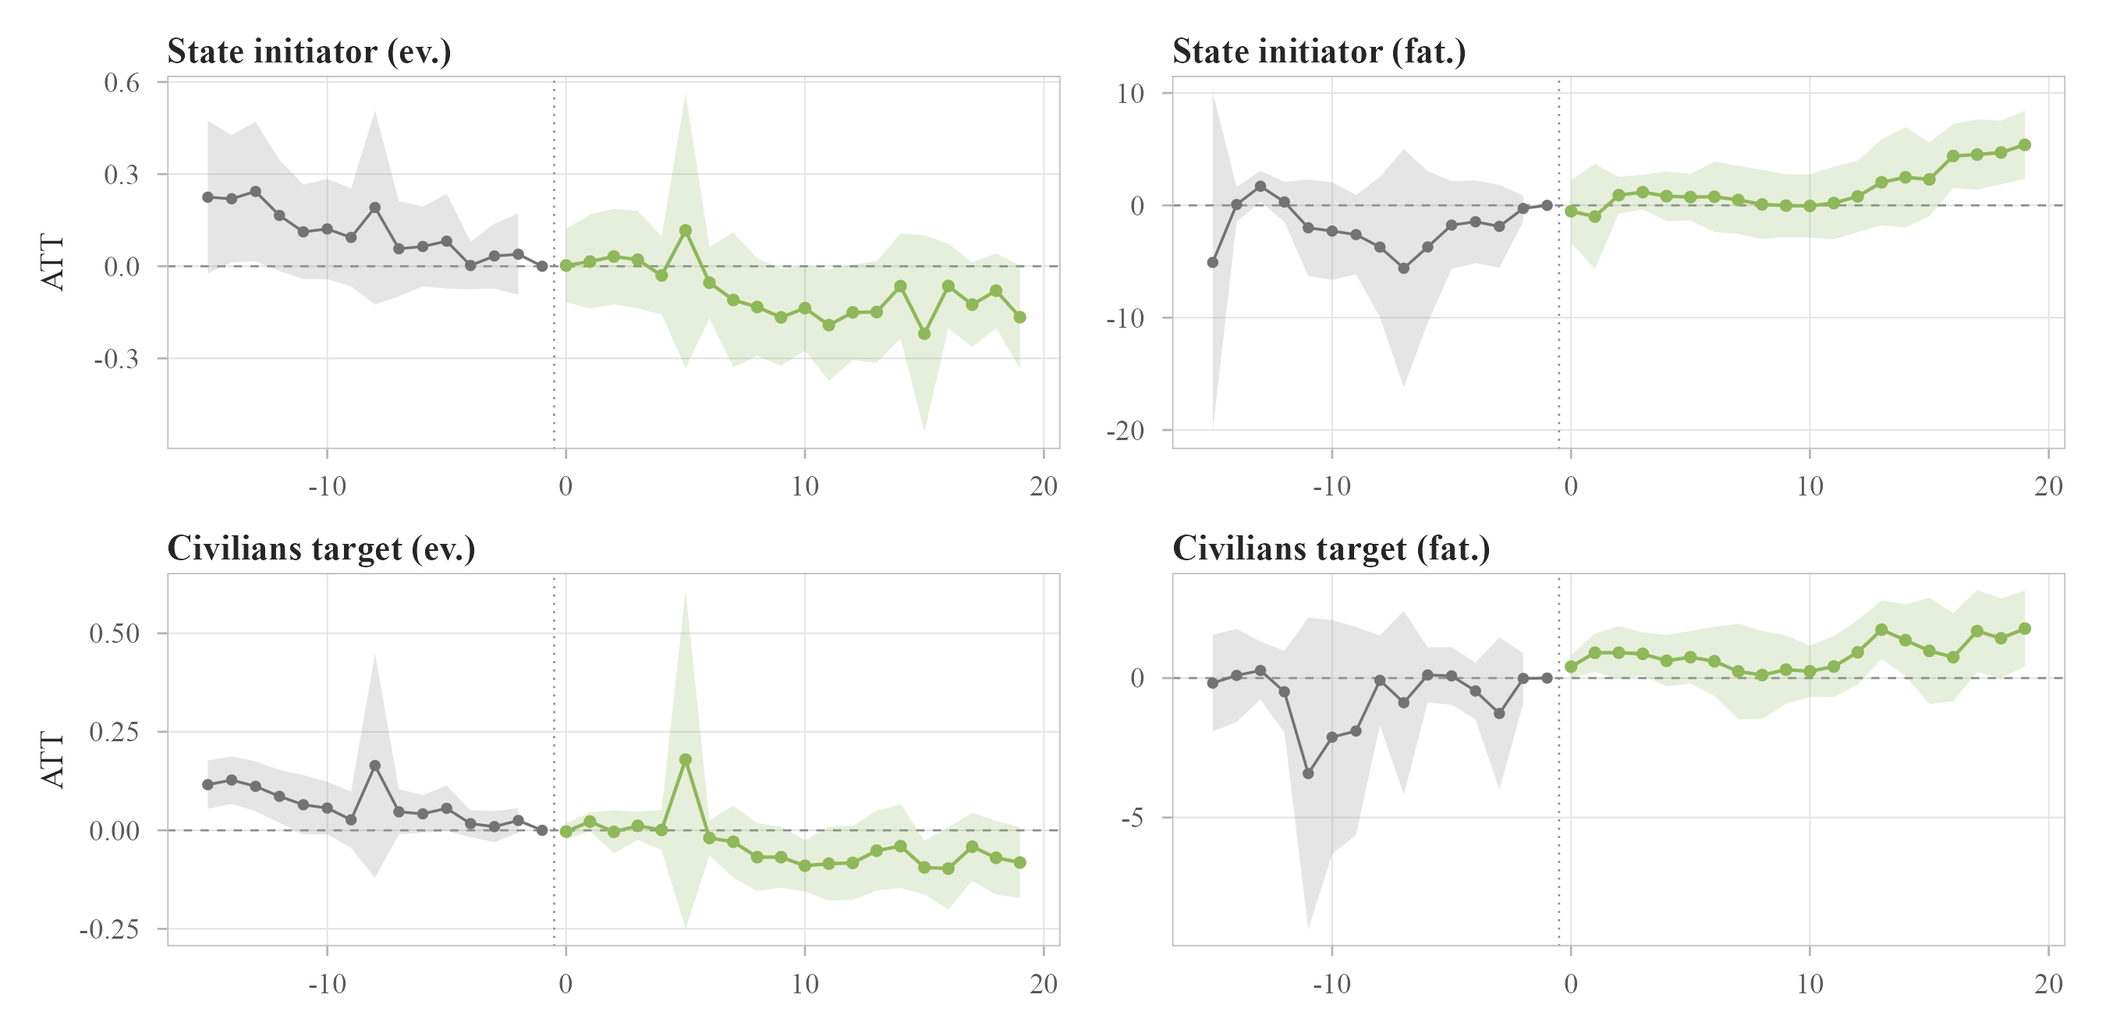
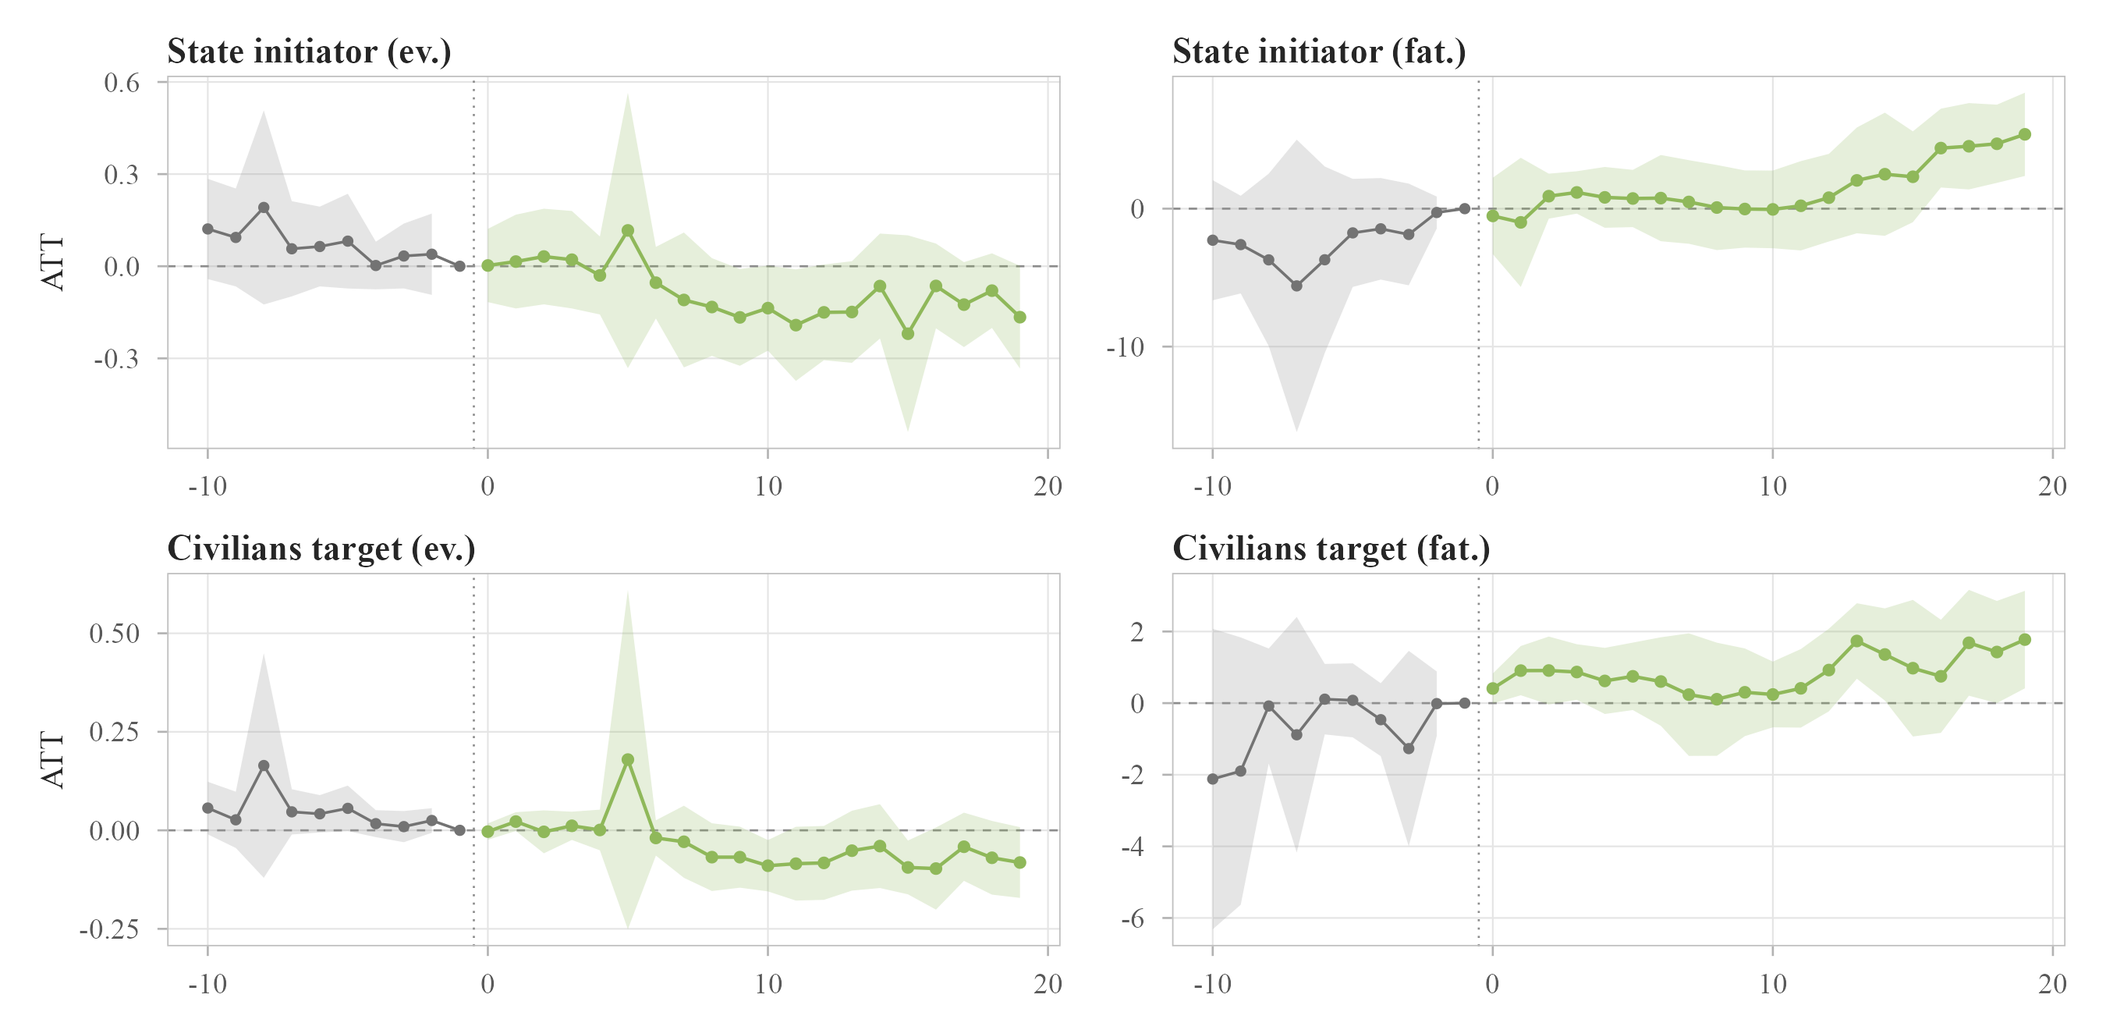
Clip every event-study figure to ten years before discovery
All pre-trend violations in the paper sat at leads of eleven years or more,
where only the earliest treated cohort contributes. Inside the ten years
before discovery every aggregate estimate is clean: zero pre-treatment
coefficients outside the simultaneous band, for all three minerals, on both
conflict events and battle deaths. Chromium's pre-window reached back
twenty-three years, which is where its eight violations were.

- All figures now display -10 onward: the regime figure, the three actor-story
  figures, and the appendix grids
- Pre columns in every mechanism table count the -10..-1 window, so the main
  table and the three appendix tables agree on the statistic
- Empirical Strategy states the window, justifies it on identification grounds,
  and reports the deeper-lead violations rather than suppressing them
- Chromium caveat rewritten: identified, on a shorter effective pre-window
- Reading guidance explains why deeper leads are not shown

Separately, 18_regen_appendix.R was estimating on the full panel while the main
text uses the governance period, so the appendix would have shown a different
sample with nothing saying why. It now applies the same 2001 restriction to
tantalum and PGMs, and its tables match the main text.

diff --git a/main_mechanisms.tex b/main_mechanisms.tex
@@ -228,14 +228,16 @@ Y_{it} = \alpha_i + \lambda_t + \sum_{k=-K}^{K} \beta_k \cdot \text{Discovery}_{
 
 \noindent where $Y_{it}$ is the outcome in grid cell $i$ and year $t$, $\alpha_i$ are cell fixed effects, $\lambda_t$ are year fixed effects, and $\text{Discovery}_{it}^k$ is an indicator equal to one when cell $i$ is $k$ periods from first mineral discovery (with $k < 0$ for pre-treatment and $k \geq 0$ for post-treatment periods). In the aggregate analysis $Y_{it}$ is either the count of conflict events or the number of battle deaths. In the actor-level analysis it is the count of events or deaths for a given actor type in a given role, as defined above. The coefficients $\beta_k$ capture the dynamic treatment effects, with pre-treatment coefficients providing a test of parallel trends. We report results using the Callaway-Sant'Anna estimator, which aggregates group-time average treatment effects on the treated into event-study coefficients while accounting for heterogeneous treatment timing.
 
-The identifying assumption for the impact of mineral discovery on our conflict outcomes is parallel trends. This means that prior to any grid cell getting treated (i.e., experiences a discovery), all grid cells have roughly the same conflict trends over time up until the grid cell's treatment year. In other words, if no grid cell had ever experienced a discovery, all grid cells would have continued to evolve in parallel. Any deviation after the treatment from this attributes post-treatment differences to the discovery rather than to other unrelated trends. We assess parallel trends by examining pre-treatment coefficients, judged against the estimator's simultaneous confidence band rather than a pointwise threshold, since the band accounts for testing many event times at once. Performance varies by outcome and we report it case by case rather than claiming it uniformly. Battle deaths satisfy parallel trends for all three minerals at every spatial scale. Conflict events do so for tantalum and, less comfortably, for platinum group metals. Chromium conflict events do not satisfy the assumption at our main resolution, and we flag this where the result is discussed. We report both an average across all post-treatment periods and an average from the tenth post-treatment year, since the effects we find emerge slowly rather than at the moment of discovery.
+The identifying assumption for the impact of mineral discovery on our conflict outcomes is parallel trends. This means that prior to any grid cell getting treated (i.e., experiences a discovery), all grid cells have roughly the same conflict trends over time up until the grid cell's treatment year. In other words, if no grid cell had ever experienced a discovery, all grid cells would have continued to evolve in parallel. Any deviation after the treatment from this attributes post-treatment differences to the discovery rather than to other unrelated trends. We assess parallel trends by examining pre-treatment coefficients, judged against the estimator's simultaneous confidence band rather than a pointwise threshold, since the band accounts for testing many event times at once. Which leads to count matters here. Discoveries are spread across two decades, so the deepest leads are identified from the earliest treated cohort alone, and a coefficient at fifteen or twenty years before discovery describes a handful of cells rather than the treated sample. We therefore assess the assumption over the ten years preceding discovery, which is the window every treated cohort contributes to and the window our figures display.
+
+On that basis all six aggregate estimates satisfy parallel trends. Neither conflict events nor battle deaths shows a single pre-treatment coefficient outside the simultaneous band in the ten years before discovery, for any of the three minerals. Violations do appear at deeper leads, one for tantalum conflict events, five for platinum group metals, and eight for chromium, and we report them rather than suppress them. All of them lie eleven or more years before discovery. For chromium the pre-treatment window extends back twenty-three years, so those coefficients are estimated from the earliest cohort at horizons no other treated cell reaches. We read them as an artefact of thin identification at long horizons rather than as evidence of diverging trends, and we note that the chromium violations also diminish as cells grow larger and disappear at 300km. We report both an average across all post-treatment periods and an average from the tenth post-treatment year, since the effects we find emerge slowly rather than at the moment of discovery.
 
 Two features of this setting bear on how that assumption should be read. Conflict is mobile. Violence shifts across cells as fighting, bargaining, and territorial control evolve, so cells will differ in their conflict trajectories for reasons that have nothing to do with minerals. Parallel trends does not require that cells look alike, and in a conflict setting they will not. It requires that treated and untreated cells would have moved together in the absence of discovery, which is a weaker condition, and one the pre-treatment coefficients speak to directly. Where those coefficients depart from zero, as they do for chromium conflict events at our main resolution, the estimate should be read as descriptive rather than causal, and we read it that way below. The chromium violations diminish as cells grow larger and disappear at 300km, which suggests they have something to do with where cell boundaries fall rather than with a trend specific to treated areas. That is reassurance rather than a substitute for the assumption holding.
 
 The timing of the effects also deserves comment, since almost nothing moves in the first four post-treatment years and the effects we report emerge after roughly five. That is what this setting would lead one to expect. Discovery is not extraction. Years pass between a deposit being identified and any activity capable of changing the incentives of armed actors or of the state, and the governance regimes themselves bite on production and trade rather than on exploration. An effect arriving at the moment of discovery would be harder to account for than one arriving later.
 
 % [PL C167] DONE. Reading guidance for the event-study figures written out.
-Each event-study figure plots these coefficients against event time. Coefficients to the left of zero describe the years before discovery and should sit close to the horizontal line at zero if parallel trends hold. Coefficients to the right of zero describe the years after discovery, and a departure from the zero line there is the estimated treatment effect. Shaded bands give 95\% confidence intervals, so a band that excludes zero indicates an effect distinguishable from no change.
+Each event-study figure plots these coefficients against event time, showing the ten years before discovery and every post-treatment year available. We do not display leads deeper than ten years. Discoveries are spread across the panel, so only the earliest cohort contributes at those horizons, and the resulting coefficients describe one group of cells rather than the treated sample. Coefficients to the left of zero describe the years before discovery and should sit close to the horizontal line at zero if parallel trends hold. Coefficients to the right of zero describe the years after discovery, and a departure from the zero line there is the estimated treatment effect. Shaded bands give 95\% confidence intervals, so a band that excludes zero indicates an effect distinguishable from no change.
 
 % =====================================================================
 % [PL C255] Sections 4 (Results), 5 (Mechanisms) and 6 (Production
@@ -296,7 +298,7 @@ Chromium & Governance gap  & $-0.155^{**}$  & $+1.645$ \\
 
 Two things stand out. Conflict events fall under all three regimes, so H1a, H2a and H3a are supported, and the frequency of violence declines wherever a discovery occurs regardless of how the mineral is governed. Lethality is where the regimes part company. H2b and H3b are supported and H1b is not, which means the tier with the strongest international oversight is the one that fails to reduce killing.
 
-One caveat attaches to the chromium event-count result. At 100km it carries eight significant pre-treatment coefficients, which weakens the parallel trends assumption for that outcome. The violations diminish as cells grow larger and disappear entirely at 300km, where the tenth-year estimate is $-2.25$ (SE $1.11$) with no significant leads. We therefore read the decline in chromium conflict events as supported but less securely identified than the increase in battle deaths, which is clean at every scale.
+One caveat attaches to the chromium event-count result. Chromium's pre-treatment window is the longest in the analysis, reaching twenty-three years before discovery, and eight coefficients in it fall outside the simultaneous confidence band. All eight sit eleven or more years before discovery, where only the earliest treated cohort contributes, and the ten years preceding discovery are clean. The violations also diminish as cells grow larger and disappear at 300km, where the tenth-year estimate is $-2.25$ (SE $1.11$). We therefore read the decline in chromium conflict events as identified, while noting it rests on a shorter effective pre-treatment window than the raw lead count suggests.
 
 % [ED C277 / PL C278] Pooled-effects figure removed by agreement of both authors.
 % The underlying table (latex/pooled_effects.tex) remains in Appendix C.

diff --git a/latex/mechanism_combined.tex b/latex/mechanism_combined.tex
@@ -7,35 +7,35 @@
 \toprule
 \textbf{Mineral} & \textbf{Tier} & \textbf{Actor outcome} & \textbf{ATT} & \textbf{Pre} \\
 \midrule
-Tantalum & International & Formal grp initiator (ev.) & -0.119$^{***}$ (0.030) & 1 \\
- &  & Formal grp initiator (fat.) & -0.686$^{***}$ (0.179) & 1 \\
- &  & Formal grp target (ev.) & -0.240$^{***}$ (0.085) & 4 \\
+Tantalum & International & Formal grp initiator (ev.) & -0.119$^{***}$ (0.030) & 0 \\
+ &  & Formal grp initiator (fat.) & -0.686$^{***}$ (0.179) & 0 \\
+ &  & Formal grp target (ev.) & -0.240$^{***}$ (0.085) & 0 \\
  &  & Formal grp target (fat.) & -0.962$^{*}$ (0.567) & 1 \\
- &  & State initiator (ev.) & -0.132 (0.105) & 4 \\
+ &  & State initiator (ev.) & -0.132 (0.105) & 0 \\
  &  & State initiator (fat.) & 0.539 (0.881) & 1 \\
- &  & Civilians target (ev.) & -0.014 (0.076) & 1 \\
+ &  & Civilians target (ev.) & -0.014 (0.076) & 0 \\
  &  & Civilians target (fat.) & 0.759 (0.799) & 0 \\
  &  & State kills civilians (fat.) & 1.237 (0.771) & 0 \\
 \midrule
-PGMs & National & Formal grp initiator (ev.) & -0.082$^{***}$ (0.019) & 4 \\
- &  & Formal grp initiator (fat.) & -0.567$^{***}$ (0.185) & 2 \\
- &  & Formal grp target (ev.) & -0.190$^{***}$ (0.046) & 2 \\
- &  & Formal grp target (fat.) & -1.637$^{***}$ (0.324) & 2 \\
- &  & State initiator (ev.) & -0.179$^{***}$ (0.052) & 3 \\
- &  & State initiator (fat.) & -1.500$^{***}$ (0.311) & 1 \\
- &  & Civilians target (ev.) & -0.073$^{***}$ (0.028) & 5 \\
- &  & Civilians target (fat.) & -0.458$^{**}$ (0.179) & 2 \\
+PGMs & National & Formal grp initiator (ev.) & -0.082$^{***}$ (0.019) & 0 \\
+ &  & Formal grp initiator (fat.) & -0.567$^{***}$ (0.185) & 0 \\
+ &  & Formal grp target (ev.) & -0.190$^{***}$ (0.046) & 0 \\
+ &  & Formal grp target (fat.) & -1.637$^{***}$ (0.324) & 1 \\
+ &  & State initiator (ev.) & -0.179$^{***}$ (0.052) & 0 \\
+ &  & State initiator (fat.) & -1.500$^{***}$ (0.311) & 0 \\
+ &  & Civilians target (ev.) & -0.073$^{***}$ (0.028) & 0 \\
+ &  & Civilians target (fat.) & -0.458$^{**}$ (0.179) & 0 \\
 \midrule
 Chromium & Governance gap & Formal grp initiator (ev.) & \multicolumn{2}{c}{\textit{no activity in treated cells}} \\
  &  & Formal grp target (ev.) & \multicolumn{2}{c}{\textit{no activity in treated cells}} \\
- &  & State initiator (ev.) & -0.083 (0.054) & 3 \\
+ &  & State initiator (ev.) & -0.083 (0.054) & 0 \\
  &  & State initiator (fat.) & 1.512 (0.942) & 0 \\
- &  & Civilians target (ev.) & -0.036 (0.026) & 7 \\
+ &  & Civilians target (ev.) & -0.036 (0.026) & 0 \\
  &  & Civilians target (fat.) & 0.850$^{**}$ (0.431) & 0 \\
- &  & State kills civilians (fat.) & 0.545$^{**}$ (0.255) & 1 \\
+ &  & State kills civilians (fat.) & 0.545$^{**}$ (0.255) & 0 \\
 \bottomrule
 \end{tabular}
 \begin{minipage}{0.95\textwidth}\vspace{4pt}\scriptsize
-\textit{Notes.} \textit{Initiator} denotes the side that carried out the violence and \textit{target} the side against which it was directed. ``ev.'' is a count of events, ``fat.'' a count of battle deaths. \textbf{ATT} is the dynamic Callaway--Sant'Anna aggregate across all post-treatment periods, with standard errors in parentheses. \textbf{Pre} counts pre-treatment coefficients falling outside the estimator's simultaneous confidence band. Tantalum and platinum group metals are estimated from 2001; chromium uses the full panel. No treated chromium cell records formal armed group activity at any spatial resolution, so those outcomes cannot be estimated. $^{*}p<0.10$, $^{**}p<0.05$, $^{***}p<0.01$.
+\textit{Notes.} \textit{Initiator} denotes the side that carried out the violence and \textit{target} the side against which it was directed. ``ev.'' is a count of events, ``fat.'' a count of battle deaths. \textbf{ATT} is the dynamic Callaway--Sant'Anna aggregate across all post-treatment periods, with standard errors in parentheses. \textbf{Pre} counts pre-treatment coefficients falling outside the estimator's simultaneous confidence band in the ten years before discovery, which is the window the event-study figures display and the one relevant to the parallel trends assumption. Leads deeper than ten years are identified from the earliest cohort alone and are not reported. Tantalum and platinum group metals are estimated from 2001; chromium uses the full panel. No treated chromium cell records formal armed group activity at any spatial resolution, so those outcomes cannot be estimated. $^{*}p<0.10$, $^{**}p<0.05$, $^{***}p<0.01$.
 \end{minipage}
 \end{table}

diff --git a/latex/mechanism_pgms.tex b/latex/mechanism_pgms.tex
@@ -7,15 +7,15 @@
 \toprule
 \textbf{Actor outcome} & \textbf{ATT} & \textbf{ATT ($e\geq10$)} & \textbf{Pre} \\
 \midrule
-Formal grp initiator (ev.) & -0.249 (0.206) & -0.329 (0.236) & 2 \\
-Formal grp initiator (fat.) & -0.440 (0.465) & -0.473 (0.583) & 1 \\
-Formal grp target (ev.) & -0.112$^{*}$ (0.062) & -0.185$^{***}$ (0.060) & 2 \\
-Formal grp target (fat.) & 1.252 (1.248) & 1.915 (1.479) & 0 \\
-State initiator (ev.) & 0.053 (0.235) & -0.118 (0.081) & 1 \\
-State initiator (fat.) & 8.853 (5.734) & 9.993 (6.899) & 1 \\
-Civilians target (ev.) & -0.086 (0.056) & -0.266 (0.187) & 1 \\
-Civilians target (fat.) & 2.466 (1.579) & 1.650 (1.285) & 0 \\
+Formal grp initiator (ev.) & -0.082$^{***}$ (0.019) & -0.131$^{***}$ (0.029) & 0 \\
+Formal grp initiator (fat.) & -0.567$^{***}$ (0.185) & -0.610$^{***}$ (0.165) & 0 \\
+Formal grp target (ev.) & -0.190$^{***}$ (0.046) & -0.289$^{***}$ (0.061) & 0 \\
+Formal grp target (fat.) & -1.637$^{***}$ (0.324) & -2.267$^{***}$ (0.440) & 1 \\
+State initiator (ev.) & -0.179$^{***}$ (0.052) & -0.271$^{***}$ (0.065) & 0 \\
+State initiator (fat.) & -1.500$^{***}$ (0.311) & -1.951$^{***}$ (0.446) & 0 \\
+Civilians target (ev.) & -0.073$^{***}$ (0.028) & -0.120$^{***}$ (0.031) & 0 \\
+Civilians target (fat.) & -0.458$^{**}$ (0.179) & -0.388$^{**}$ (0.182) & 0 \\
 \bottomrule
 \end{tabular}
-\begin{minipage}{0.9\textwidth}\vspace{4pt}\scriptsize \textit{Notes.} Dynamic Callaway--Sant'Anna aggregates, standard errors in parentheses. \textbf{Pre} counts pre-treatment coefficients outside the simultaneous confidence band. $^{*}p<0.10$, $^{**}p<0.05$, $^{***}p<0.01$.\end{minipage}
+\begin{minipage}{0.9\textwidth}\vspace{4pt}\scriptsize \textit{Notes.} Dynamic Callaway--Sant'Anna aggregates, standard errors in parentheses. \textbf{Pre} counts pre-treatment coefficients outside the simultaneous confidence band in the ten years before discovery, which is the window the figures display. $^{*}p<0.10$, $^{**}p<0.05$, $^{***}p<0.01$.\end{minipage}
 \end{table}

diff --git a/latex/mechanism_tantalum.tex b/latex/mechanism_tantalum.tex
@@ -7,15 +7,15 @@
 \toprule
 \textbf{Actor outcome} & \textbf{ATT} & \textbf{ATT ($e\geq10$)} & \textbf{Pre} \\
 \midrule
-Formal grp initiator (ev.) & -0.092$^{***}$ (0.027) & -0.097$^{***}$ (0.029) & 1 \\
-Formal grp initiator (fat.) & -0.221 (0.291) & -0.099 (0.395) & 0 \\
-Formal grp target (ev.) & -0.194$^{***}$ (0.071) & -0.206$^{***}$ (0.061) & 1 \\
-Formal grp target (fat.) & 0.936 (1.217) & 1.925 (1.837) & 0 \\
-State initiator (ev.) & -0.114 (0.077) & -0.196$^{***}$ (0.064) & 1 \\
-State initiator (fat.) & 5.042 (3.187) & 6.493 (4.733) & 0 \\
-Civilians target (ev.) & -0.015 (0.057) & -0.091$^{***}$ (0.030) & 1 \\
-Civilians target (fat.) & 1.570$^{*}$ (0.808) & 1.315 (0.917) & 0 \\
+Formal grp initiator (ev.) & -0.119$^{***}$ (0.030) & -0.132$^{***}$ (0.025) & 0 \\
+Formal grp initiator (fat.) & -0.686$^{***}$ (0.179) & -0.801$^{***}$ (0.219) & 0 \\
+Formal grp target (ev.) & -0.240$^{***}$ (0.085) & -0.256$^{***}$ (0.057) & 0 \\
+Formal grp target (fat.) & -0.962$^{*}$ (0.567) & -0.706 (0.684) & 1 \\
+State initiator (ev.) & -0.132 (0.105) & -0.251$^{***}$ (0.059) & 0 \\
+State initiator (fat.) & 0.539 (0.881) & -0.359 (0.705) & 1 \\
+Civilians target (ev.) & -0.014 (0.076) & -0.131$^{***}$ (0.026) & 0 \\
+Civilians target (fat.) & 0.759 (0.799) & -0.528$^{**}$ (0.206) & 0 \\
 \bottomrule
 \end{tabular}
-\begin{minipage}{0.9\textwidth}\vspace{4pt}\scriptsize \textit{Notes.} Dynamic Callaway--Sant'Anna aggregates, standard errors in parentheses. \textbf{Pre} counts pre-treatment coefficients outside the simultaneous confidence band. $^{*}p<0.10$, $^{**}p<0.05$, $^{***}p<0.01$.\end{minipage}
+\begin{minipage}{0.9\textwidth}\vspace{4pt}\scriptsize \textit{Notes.} Dynamic Callaway--Sant'Anna aggregates, standard errors in parentheses. \textbf{Pre} counts pre-treatment coefficients outside the simultaneous confidence band in the ten years before discovery, which is the window the figures display. $^{*}p<0.10$, $^{**}p<0.05$, $^{***}p<0.01$.\end{minipage}
 \end{table}

diff --git a/latex/mechanism_chromium.tex b/latex/mechanism_chromium.tex
@@ -11,11 +11,11 @@ Formal grp initiator (ev.) & \multicolumn{3}{c}{\textit{no activity in treated c
 Formal grp initiator (fat.) & \multicolumn{3}{c}{\textit{no activity in treated cells}} \\
 Formal grp target (ev.) & \multicolumn{3}{c}{\textit{no activity in treated cells}} \\
 Formal grp target (fat.) & \multicolumn{3}{c}{\textit{no activity in treated cells}} \\
-State initiator (ev.) & -0.083 (0.054) & -0.135$^{*}$ (0.071) & 3 \\
+State initiator (ev.) & -0.083 (0.054) & -0.135$^{*}$ (0.071) & 0 \\
 State initiator (fat.) & 1.512 (0.942) & 2.681$^{**}$ (1.227) & 0 \\
-Civilians target (ev.) & -0.036 (0.026) & -0.073$^{*}$ (0.039) & 7 \\
+Civilians target (ev.) & -0.036 (0.026) & -0.073$^{*}$ (0.039) & 0 \\
 Civilians target (fat.) & 0.850$^{**}$ (0.431) & 1.128$^{**}$ (0.541) & 0 \\
 \bottomrule
 \end{tabular}
-\begin{minipage}{0.9\textwidth}\vspace{4pt}\scriptsize \textit{Notes.} Dynamic Callaway--Sant'Anna aggregates, standard errors in parentheses. \textbf{Pre} counts pre-treatment coefficients outside the simultaneous confidence band. $^{*}p<0.10$, $^{**}p<0.05$, $^{***}p<0.01$.\end{minipage}
+\begin{minipage}{0.9\textwidth}\vspace{4pt}\scriptsize \textit{Notes.} Dynamic Callaway--Sant'Anna aggregates, standard errors in parentheses. \textbf{Pre} counts pre-treatment coefficients outside the simultaneous confidence band in the ten years before discovery, which is the window the figures display. $^{*}p<0.10$, $^{**}p<0.05$, $^{***}p<0.01$.\end{minipage}
 \end{table}
